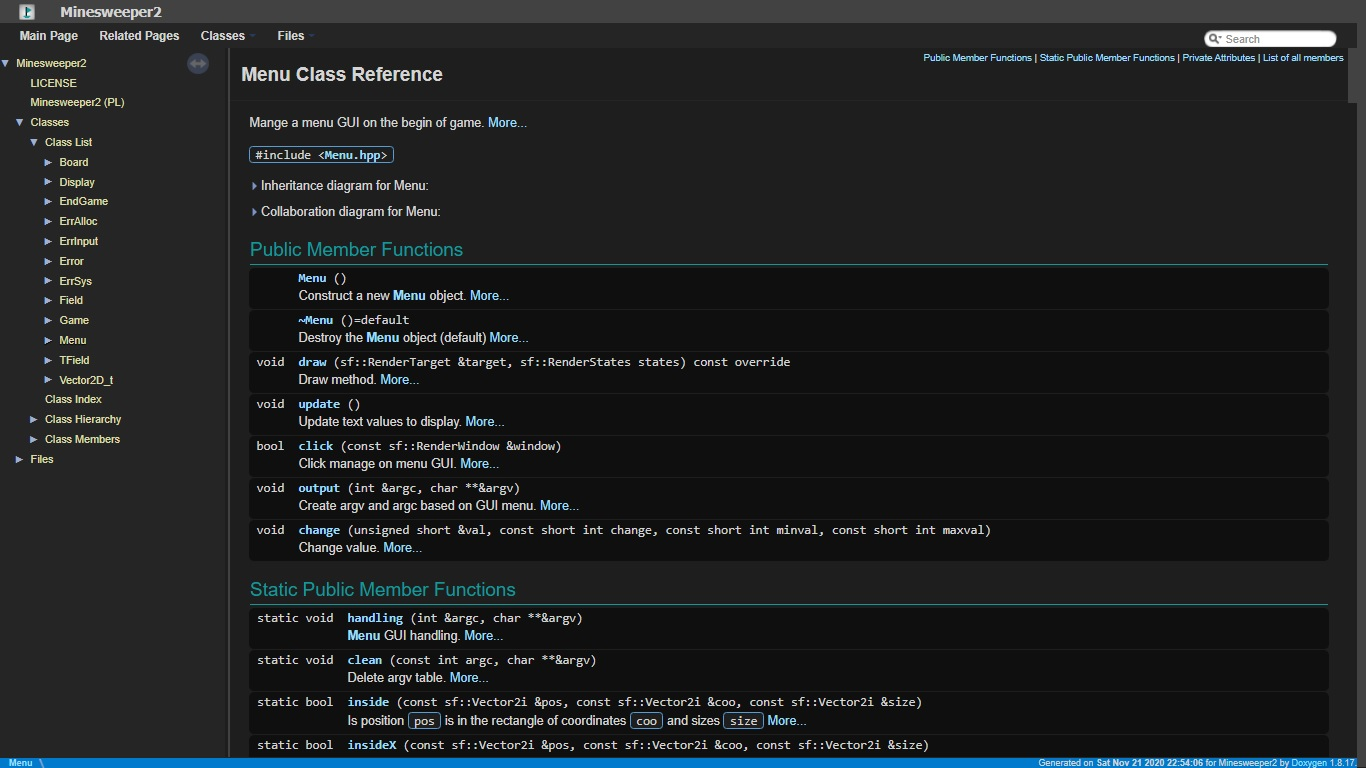
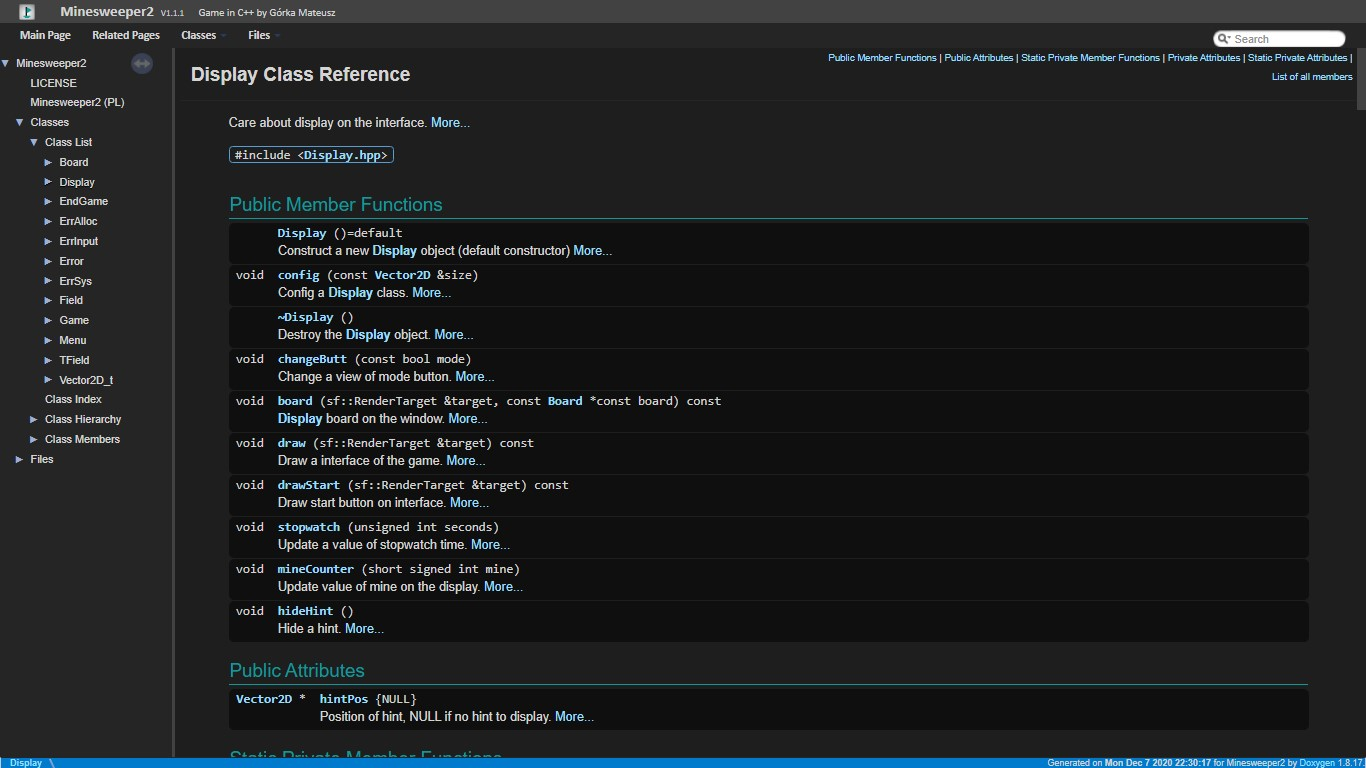
Header and side-bar modify
- header font,
- side bar width,
- first step of responsive,
- demo of theme

ideas: responsive page!

diff --git a/custom.css b/custom.css
@@ -105,6 +105,7 @@ h4.glow, h5.glow, h6.glow {
 ul#main-menu li a:link,
 ul#main-menu li a:visited {
 	color:#d4d4d4!important;
+	font-family:Calibri;
 }
 #main-nav,
 #main-nav ul,
@@ -233,7 +234,10 @@ a.SelectItem:hover {
 	background: #252525;
 }
 #nav-tree-contents ul li a {
-	color:#dcdcaa !important;
+	color:#d4d4d4 !important;
+}
+#side-nav {
+	padding:0 !important;
 }
 
 /** ------------------------------------------- */
@@ -740,6 +744,23 @@ a.qindex {
 	border:none;
 }
 
+/** ------------------------------------------- */
+/*??? Responsible	 							*/
+/** ------------------------------------------- */
+@media (max-width:768px){
+	#main-nav {
+		display:none;
+	}
+}
 
-
-
+/** ------------------------------------------- */
+/*??? Fold/unfold side bar						*/
+/** ------------------------------------------- */
+#menu-unfold-button {
+	position:fixed;
+	top:30px;
+	left:30px;
+	min-width:20px;
+	min-height:20px;
+	background-color:red;
+}

diff --git a/custom.js b/custom.js
@@ -1,0 +1,8 @@
+
+/// Max width of side bar menu
+var side_bar_max_width = 200;
+if( $("#side-nav").width() > side_bar_max_width )
+    $("#side-nav").css({width:side_bar_max_width});
+
+/// Fold and unfold side bar menu
+// todo

diff --git a/README.md b/README.md
@@ -6,11 +6,13 @@ The theme based on Tilen Majerles project on the MIT Licence.
 [MaJerle/doxygen-dark-theme](https://github.com/MaJerle/doxygen-dark-theme)
 
 ## Preview
+See example: [DEMO (maatiug/Minesweeper)](https://maatiug.github.io/Minesweeper/)
+
 ![img](doc/example1.jpg)
 
 ## How to change doxygen theme
 
-Just modify 3 linex of doxygen config file (default Doxfile):
+Just modify 4 lines of doxygen config file (default Doxfile):
 
 ```
 HTML_EXTRA_STYLESHEET  = "<path>/custom.css"
@@ -19,4 +21,8 @@ HTML_EXTRA_STYLESHEET  = "<path>/custom.css"
 ```
 HTML_HEADER            = "<path>/html_header.html"
 HTML_FOOTER            = "<path>/html_footer.html"
+```
+
+```
+HTML_EXTRA_FILES       = "<path>/custom.js"
 ```
